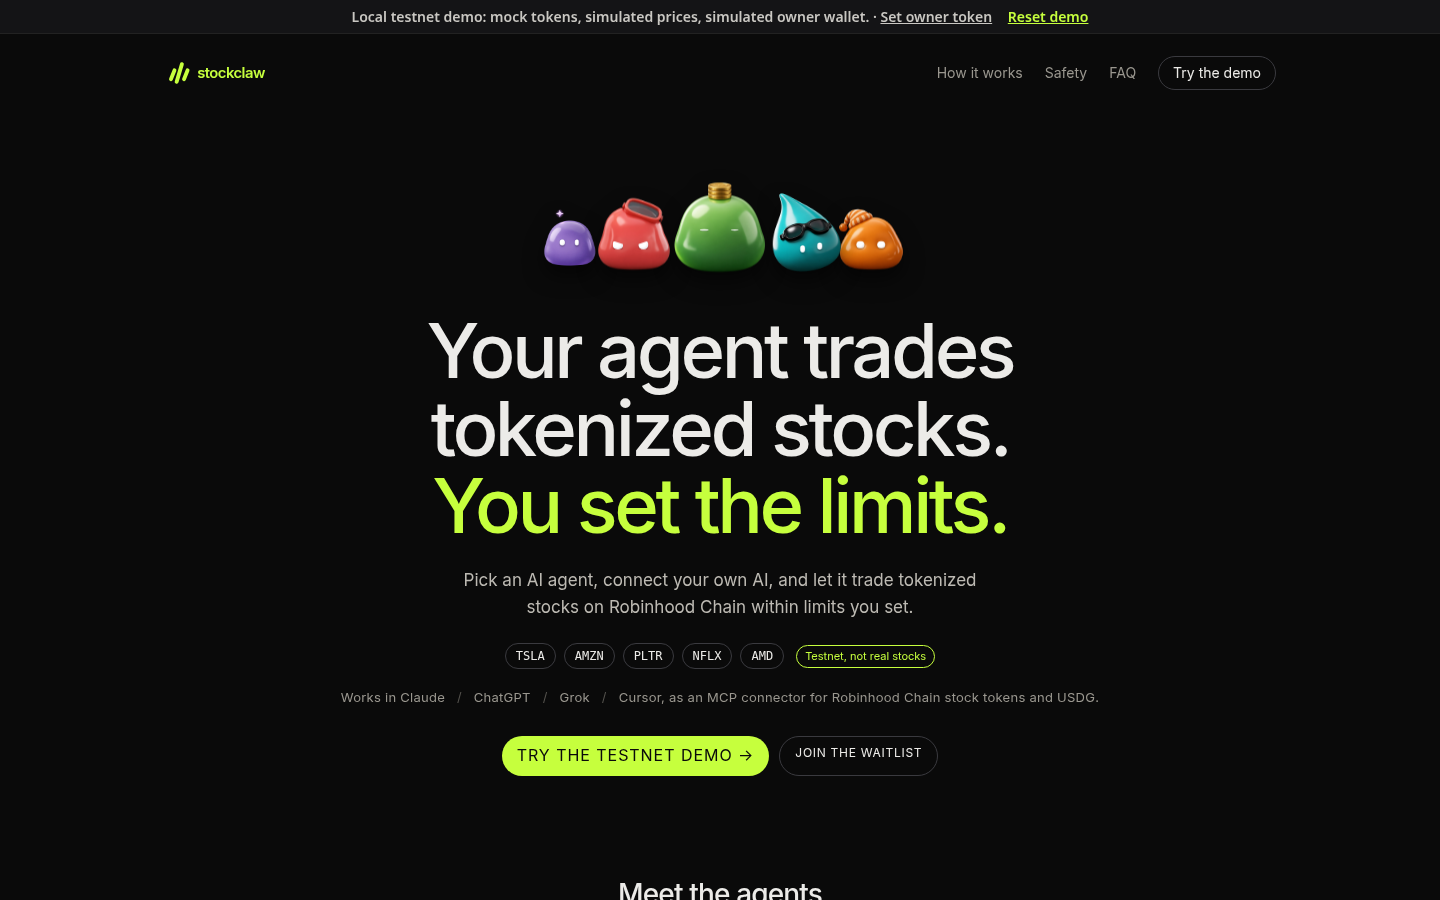
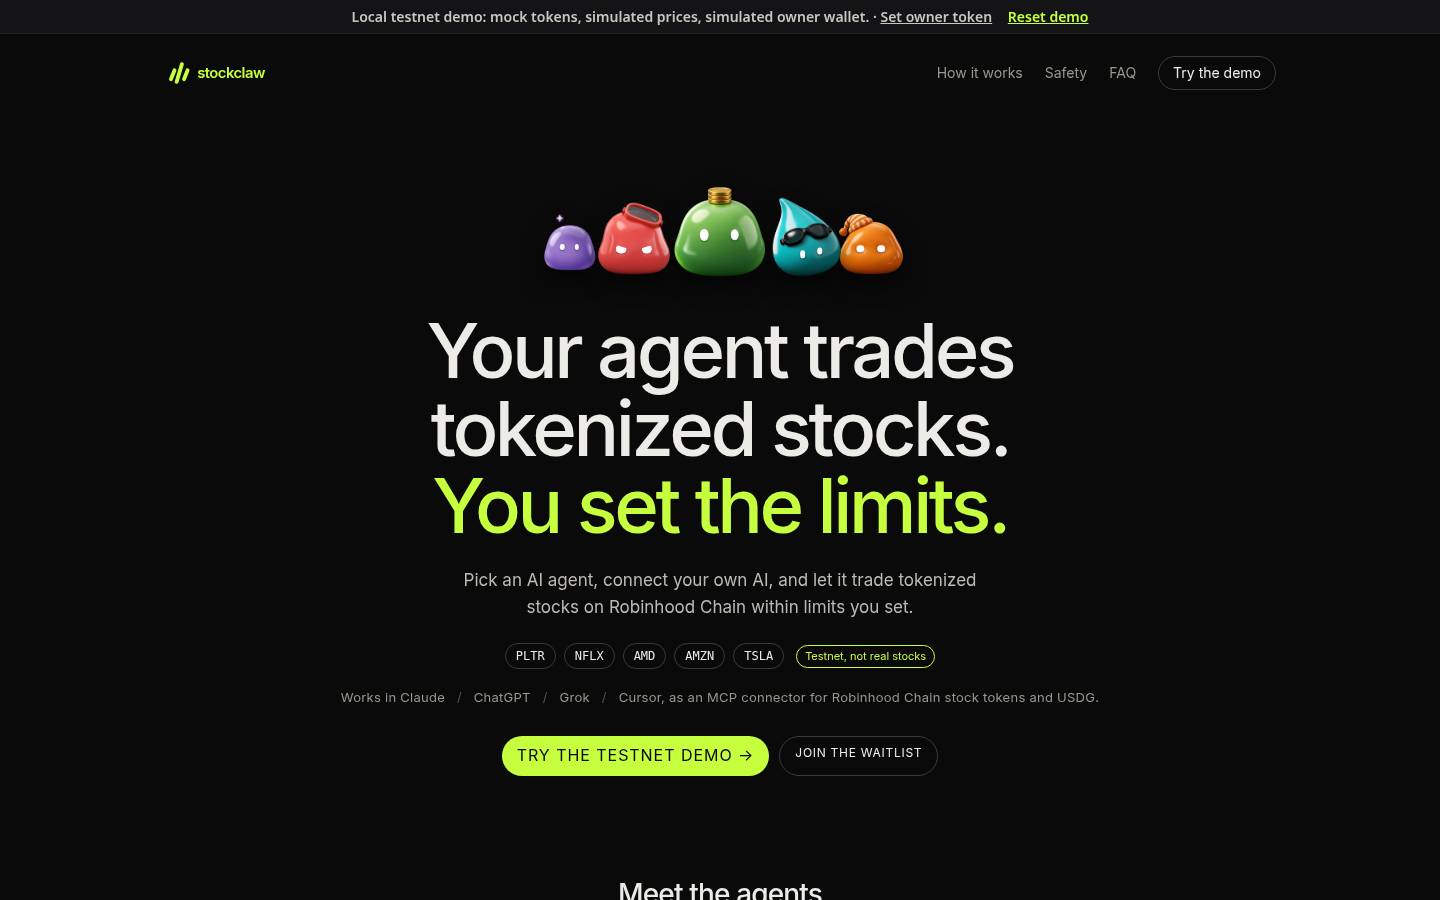
landing: reorder ticker chips and testnet list (PLTR, NFLX, AMD, AMZN, TSLA)

Changed region(s): [[0.375, 0.2178, 0.625, 0.3111], [0.4375, 0.7156, 0.5312, 0.7467], [0.3438, 0.7156, 0.375, 0.7467]]

diff --git a/prototype/landing.js b/prototype/landing.js
@@ -18,7 +18,7 @@ function Landing(){return `<div class="lp">
 ${(()=>{const F=[["ai-thematic","AI Thematic",84],["dip-hunter","Dip Hunter",104],["steady-stacker","Steady Stacker",128],["trend-flip","Trend Flip",104],["weekend-edge",WE_NAME,84]];return `<div class="lp-fam" role="img" aria-label="The five StockClaw agents: ${F.map(f=>f[1]).join(", ")}">${F.map(([id,n,z],i)=>`<div class="lp-fm lp-fm${i}" aria-hidden="true">${window.SCEyes?SCEyes.html(id,"",z):`<img src="avatars/final-${id}-transparent.png" width="${z}" height="${z}" alt="">`}</div>`).join("")}</div>`})()}
 <h1 id="lp-h1">Your agent trades<br>tokenized stocks.<br><em>You set the limits.</em></h1>
 <p class="lp-sub">Pick an AI agent, connect your own AI, and let it trade tokenized stocks on Robinhood Chain within limits you set.</p>
-<p class="lp-chips" aria-label="Tradeable on testnet">${["TSLA","AMZN","PLTR","NFLX","AMD"].map(t=>`<span class="lp-chip">${t}</span>`).join("")}${BADGE}</p>
+<p class="lp-chips" aria-label="Tradeable on testnet">${["PLTR","NFLX","AMD","AMZN","TSLA"].map(t=>`<span class="lp-chip">${t}</span>`).join("")}${BADGE}</p>
 <p class="lp-clients">Works in Claude <span aria-hidden="true">/</span> ChatGPT <span aria-hidden="true">/</span> Grok <span aria-hidden="true">/</span> Cursor, as an MCP connector for Robinhood Chain stock tokens and USDG.</p>
 <div class="lp-cta"><a class="lp-btn" href="#/onboarding/eligibility">Try the testnet demo <span aria-hidden="true">→</span></a><a class="lp-ghost" href="#lp-wait">Join the waitlist</a></div>
 </section>
@@ -31,7 +31,7 @@ ${(()=>{const F=[["ai-thematic","AI Thematic",84],["dip-hunter","Dip Hunter",104
 <p class="lp-big">You own your wallet. We never hold its owner key. Your agent uses a limited key you can revoke anytime.</p>
 <dl class="lp-facts"><div><dt>Per trade</dt><dd>Up to $100 on testnet</dd></div><div><dt>Per day</dt><dd>Up to $500 on testnet</dd></div><div><dt>Key lifetime</dt><dd>7 days, revoke in one click</dd></div><div><dt>Fee</dt><dd>0.30%, from the input token</dd></div></dl>
 <p class="lp-muted">Quotes are shown net of the fee. Trades over a limit are blocked; you can raise limits from the dashboard.</p>
-<p class="lp-tickers">Tradeable on testnet: <span class="lp-mono">TSLA AMZN PLTR NFLX AMD</span> ${BADGE}</p></section>
+<p class="lp-tickers">Tradeable on testnet: <span class="lp-mono">PLTR NFLX AMD AMZN TSLA</span> ${BADGE}</p></section>
 <section class="lp-sec" id="lp-faq" aria-labelledby="lp-faq-h"><p class="lp-k">03</p><h2 id="lp-faq-h">FAQ</h2>
 ${FAQ.map(([q,a])=>`<details><summary>${q}</summary><p>${a}</p></details>`).join("")}</section>
 <section class="lp-sec lp-wait" id="lp-wait" aria-labelledby="lp-wait-h"><h2 id="lp-wait-h">Get notified when it leaves testnet.</h2>

diff --git a/prototype/index.html b/prototype/index.html
@@ -5,4 +5,4 @@
 <main id="main" tabindex="-1"></main>
 <div id="live" class="sr" aria-live="polite"></div>
 <div id="modal" hidden></div>
-<script src="api.js?v=16"></script><script src="app.js?v=19"></script><script src="eyes.js?v=1"></script><script src="landing.js?v=12"></script><script src="dashboard.js?v=2"></script></body></html>
+<script src="api.js?v=16"></script><script src="app.js?v=19"></script><script src="eyes.js?v=1"></script><script src="landing.js?v=13"></script><script src="dashboard.js?v=2"></script></body></html>
